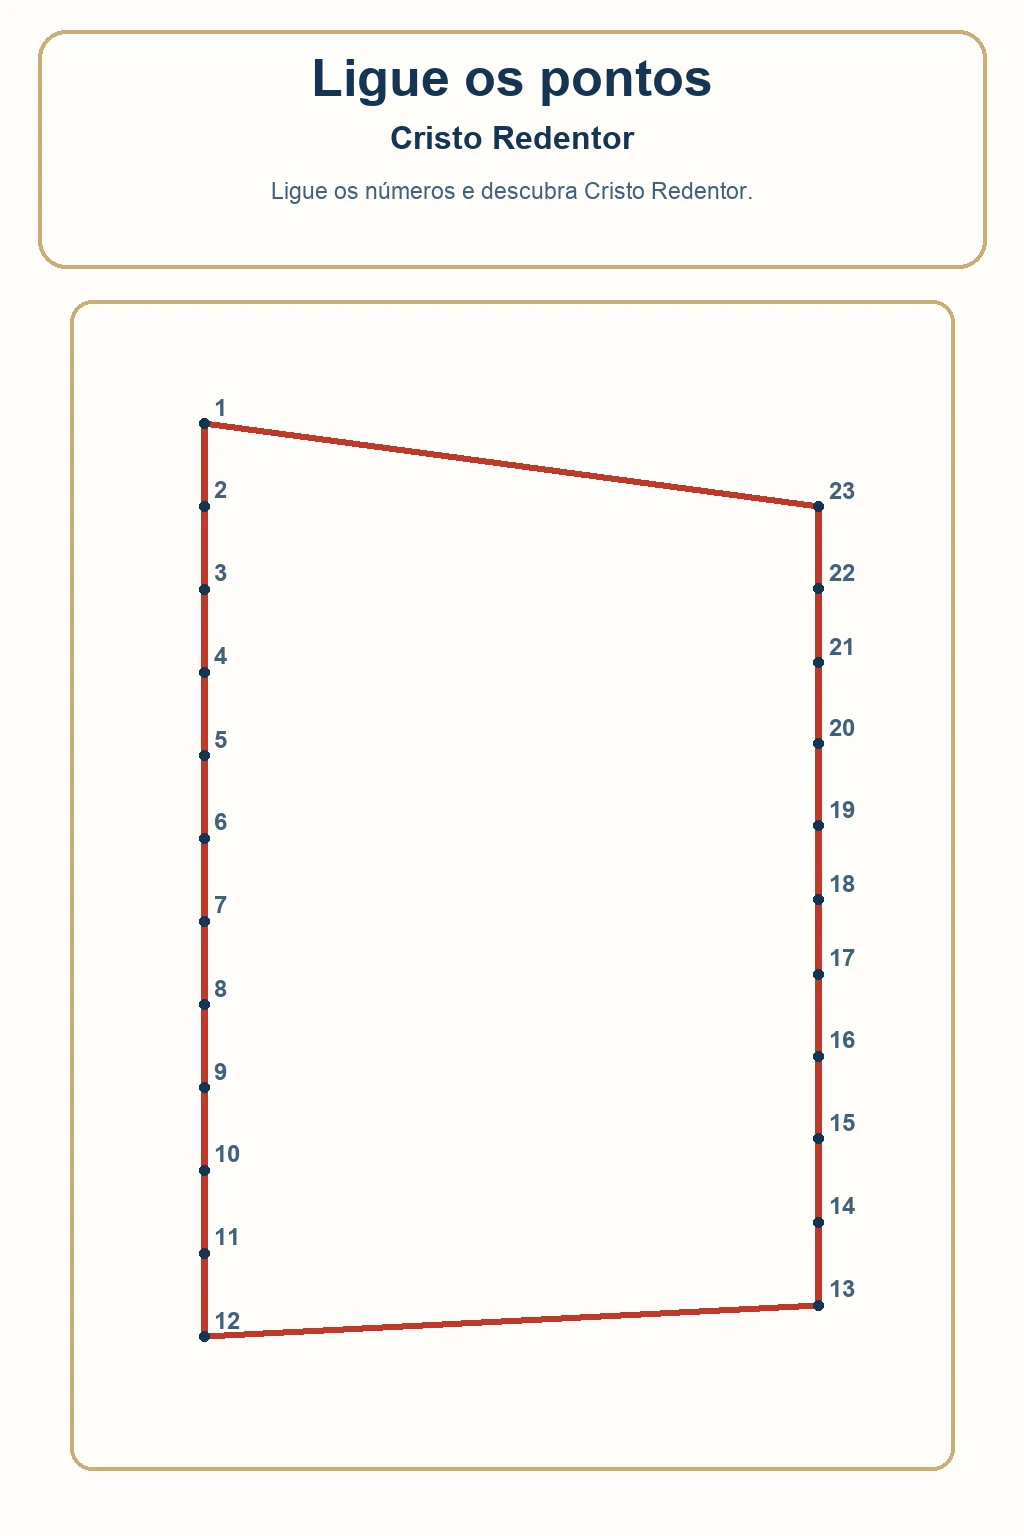
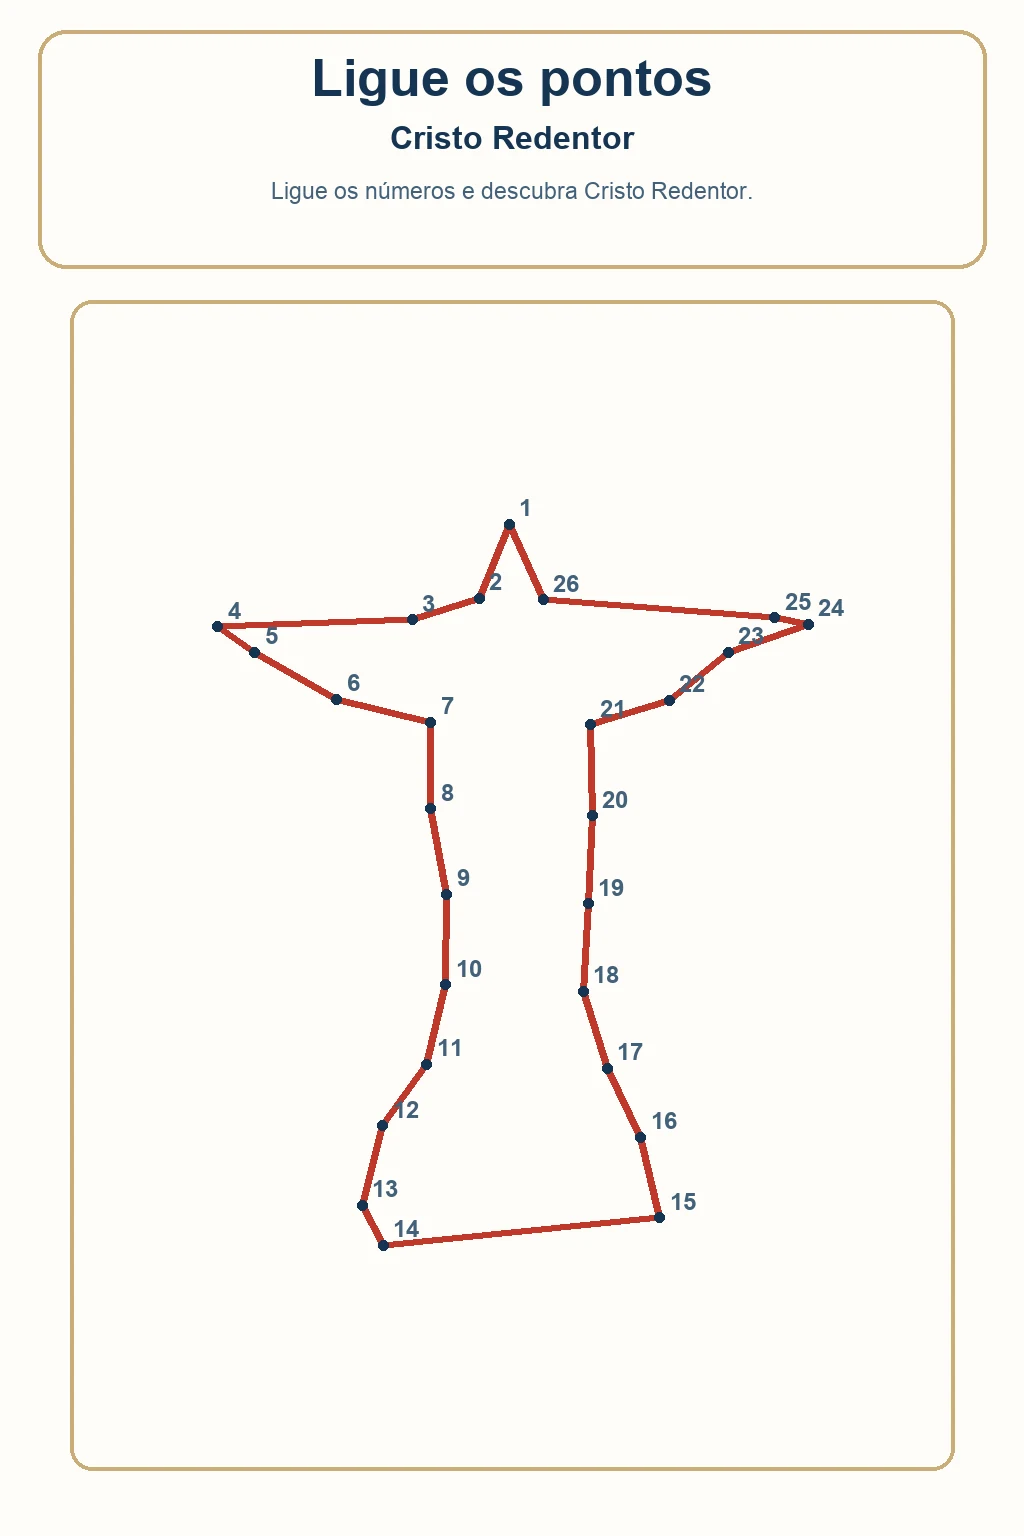
Split the house style by medium and stop it wrecking two activities
The style did reach real guide generation — it lives in the production
prompt, and the card previews are output of that pipeline, not mock-ups.
But applying one style to every medium broke two pages, and both only
showed up on review of the generated art.

The colouring page is thresholded to pure black and white, so the ochre
frame came back as a mangled black rectangle clipping off the sheet. Worse,
the dot-to-dot traces the outer silhouette of its line art to place the
numbers — and with a frame around the page, the outer silhouette IS the
frame. The puzzle shipped as two straight columns of dots whose answer was
a rectangle, with no trace of Christ the Redeemer.

So the house style is now three variants of one identity. Framed parchment
for colour activity pages. The same palette without the frame for spot the
difference, whose page crops the art into panels and throws the border away
anyway. Pure black line art on white for colouring, family colouring and
dot-to-dot, where any border reappears as ink.

Two activities never had the style at all: family colouring and
investigator build their prompts in their own functions and were missed the
first time. They now take the line-art and framed variants respectively.

The dot-to-dot also gained a guard, because a frame in the art is not the
only way to get one: a silhouette whose width barely varies down the page
is a border, not a monument, and is refused rather than printed.

diff --git a/tests/test_writing_activity_pages.py b/tests/test_writing_activity_pages.py
@@ -84,21 +84,20 @@ def test_writing_page_keeps_white_paper_even_over_dark_artwork(tmp_path: Path):
 
 
 def test_every_activity_artwork_asks_for_the_same_house_style():
-    """Uma identidade só para o caderno inteiro.
+    """Uma identidade só para o caderno, em três variantes de meio.
 
-    Sem contrato compartilhado, cada atividade saía com fundo próprio e o
-    guia parecia uma colagem de fontes diferentes.
+    Aplicar a moldura a tudo quebrou duas páginas: em colorir ela virou borda
+    preta torta na conversão monocromática, e no ligue os pontos o traçador
+    seguiu a moldura em vez do monumento.
     """
 
     from minerva_travel.models import OPTIONAL_LANDMARK_ACTIVITY_TYPES
     from minerva_travel.page_generation import activity_artwork_prompt
 
-    visual_types = [
-        activity_type
-        for activity_type in OPTIONAL_LANDMARK_ACTIVITY_TYPES
-        if activity_type not in {"family_coloring", "investigator"}
-    ]
-    for activity_type in visual_types:
+    lineart = {"coloring", "dot_to_dot"}
+    for activity_type in OPTIONAL_LANDMARK_ACTIVITY_TYPES:
+        if activity_type in {"investigator", "family_coloring"}:
+            continue  # têm prompt próprio, cobertos abaixo
         prompt = activity_artwork_prompt(
             activity_type=activity_type,
             landmark_name="Coliseu",
@@ -109,13 +108,51 @@ def test_every_activity_artwork_asks_for_the_same_house_style():
             has_revision_reference=False,
         )
         assert "HOUSE STYLE" in prompt, activity_type
-        # Paleta e traço são o que faz o caderno parecer um caderno só.
-        assert "vintage children's storybook watercolour" in prompt, activity_type
-        assert "aged cream, golden ochre, muted navy blue" in prompt, activity_type
-        # O texto exato continua sendo composto por código, nunca desenhado.
+        assert "vintage children's storybook" in prompt, activity_type
         assert "text-free" in prompt.lower(), activity_type
 
-        # A moldura ornamentada é a variante padrão; o "ache os erros" recorta
-        # a arte em painéis e a moldura seria descartada.
-        framed = "ornate double-rule border frame" in prompt
-        assert framed is (activity_type != "spot_the_difference"), activity_type
+        if activity_type in lineart:
+            # Traço puro: qualquer moldura reaparece como borda preta e, no
+            # ligue os pontos, vira a própria resposta do enigma.
+            assert "pure black line art" in prompt, activity_type
+            assert "no border frame" in prompt.lower(), activity_type
+        else:
+            assert "aged cream, golden ochre, muted navy blue" in prompt, activity_type
+            framed = "ornate double-rule border frame" in prompt
+            assert framed is (activity_type != "spot_the_difference"), activity_type
+
+
+def test_the_two_family_activities_share_the_house_style_too():
+    """Elas têm prompt próprio e ficaram de fora na primeira passada."""
+
+    from minerva_travel.page_generation import (
+        family_coloring_artwork_prompt,
+        investigator_artwork_prompt,
+    )
+
+    coloring = family_coloring_artwork_prompt(
+        landmark_name="Coliseu",
+        city="Roma",
+        country="Itália",
+        age_complexity="early_reader",
+        expected_visible_family_member_count=3,
+        has_family_cover=True,
+        has_landmark_reference=False,
+        has_landmark_page_reference=False,
+        has_revision_reference=False,
+    )
+    assert "pure black line art" in coloring
+
+    investigator = investigator_artwork_prompt(
+        child_count=2,
+        landmark_name="Coliseu",
+        city="Roma",
+        country="Itália",
+        age_complexity="early_reader",
+        expected_visible_family_member_count=3,
+        has_family_cover=True,
+        has_landmark_reference=False,
+        has_landmark_page_reference=False,
+        has_revision_reference=False,
+    )
+    assert "ornate double-rule border frame" in investigator

diff --git a/src/minerva_travel/page_generation.py b/src/minerva_travel/page_generation.py
@@ -1798,12 +1798,34 @@ _HOUSE_STYLE_PLAIN = (
     "paper grain overlay. No neon, no flat vector shapes, no modern UI look, no drop shadows."
 )
 
+# Páginas em traço puro. A moldura do estilo padrão vira borda preta torta
+# depois da conversão monocromática, e no "ligue os pontos" o traçador de
+# silhueta segue a moldura em vez do monumento — o enigma sai um retângulo.
+_HOUSE_STYLE_LINEART = (
+    "HOUSE STYLE — pure black line art on plain white, in the same vintage children's storybook "
+    "hand as the rest of the book: confident ink outlines, generous closed shapes, no shading. "
+    "Absolutely no border frame, no corner ornament, no postmark, no parchment texture, no "
+    "background wash and no colour — the sheet outside the drawing must stay pure white."
+)
+
 _WRITING_ARTWORK_CONTRACT = (
     "Create a decorative border-only illustration for a writing page: {motif}, arranged around "
     "the outer edges as a calm watercolor frame. Keep the entire central 80 percent pale, plain "
     "and free of detail — trusted code paints opaque ruled panels over it. Do not draw lines, "
     "rules, boxes, paper sheets or writing areas anywhere."
 )
+
+
+# Traço puro: a arte vira silhueta ou desenho de colorir e não pode ter moldura.
+_LINEART_ACTIVITIES = frozenset({"coloring", "family_coloring", "dot_to_dot"})
+
+
+def _house_style_for(activity_type: str) -> str:
+    if activity_type in _LINEART_ACTIVITIES:
+        return _HOUSE_STYLE_LINEART
+    if activity_type == "spot_the_difference":
+        return _HOUSE_STYLE_PLAIN
+    return _HOUSE_STYLE
 
 
 def activity_artwork_prompt(
@@ -1935,7 +1957,7 @@ def activity_artwork_prompt(
     return f"""
 Create only the visual artwork layer for a premium vertical printable children's travel activity.
 Activity: {activity_type}. Landmark: {landmark_name}. Location: {location}.
-{_HOUSE_STYLE_PLAIN if activity_type == "spot_the_difference" else _HOUSE_STYLE}
+{_house_style_for(activity_type)}
 Age-complexity band: {age_complexity}.
 {source_contract}{revision_contract}
 
@@ -2013,6 +2035,7 @@ def family_coloring_artwork_prompt(
     return f"""
 Create only the visual artwork layer for a premium vertical printable children's family travel
 coloring page set at {landmark_name} in {location}.
+{_HOUSE_STYLE_LINEART}
 {" ".join(reference_roles)}
 
 Show the complete referenced family enjoying one warm, affectionate vacation moment together,
@@ -2100,6 +2123,7 @@ def investigator_artwork_prompt(
     return f"""
 Create only the visual artwork layer for a premium vertical printable children's travel activity
 at {landmark_name} in {location}. The family is playing a warm, collaborative detective game.
+{_HOUSE_STYLE}
 {" ".join(reference_roles)}
 
 Preserve each family member's identity, age relationship, hair, glasses, body proportions and major

diff --git a/src/minerva_travel/dot_to_dot.py b/src/minerva_travel/dot_to_dot.py
@@ -22,6 +22,8 @@ DEFAULT_DOT_COUNT = DOT_COUNTS["early_reader"]
 
 INK_THRESHOLD = 128
 MIN_SILHOUETTE_ROWS = 24
+# Um contorno que quase não varia de largura é moldura, não monumento.
+MIN_SILHOUETTE_SPREAD = 0.15
 
 
 class DotToDotGenerationError(ValueError):
@@ -62,6 +64,7 @@ def build_dot_to_dot(lineart_path, *, dots: int) -> DotToDot:
         right_edge.append((dark[-1], row))
     if len(left_edge) < MIN_SILHOUETTE_ROWS:
         raise DotToDotGenerationError("O desenho não tem silhueta suficiente para ligar pontos.")
+    _reject_page_border(left_edge, right_edge, width)
 
     # Sobe pelo lado direito para fechar o contorno num laço só.
     outline = left_edge + list(reversed(right_edge))
@@ -80,6 +83,28 @@ def minimum_dot_gap(width: int, height: int) -> int:
     """
 
     return max(24, min(width, height) // 24)
+
+
+def _reject_page_border(
+    left_edge: list[tuple[int, int]],
+    right_edge: list[tuple[int, int]],
+    width: int,
+) -> None:
+    """Refuse a silhouette that is really the page frame.
+
+    Uma moldura decorativa vira duas colunas retas de pontos: ligá-las desenha
+    um retângulo, não o monumento. É melhor recusar do que imprimir um enigma
+    cuja resposta é a borda da folha.
+    """
+
+    spread = max(
+        max(x for x, _y in left_edge) - min(x for x, _y in left_edge),
+        max(x for x, _y in right_edge) - min(x for x, _y in right_edge),
+    )
+    if spread < width * MIN_SILHOUETTE_SPREAD:
+        raise DotToDotGenerationError(
+            "O contorno encontrado é a moldura da página, não o ponto turístico."
+        )
 
 
 def _sample(

diff --git a/tests/test_dot_to_dot.py b/tests/test_dot_to_dot.py
@@ -68,3 +68,16 @@ def test_impossible_dot_counts_are_refused(tmp_path: Path):
     for dots in (5, 200):
         with pytest.raises(DotToDotGenerationError):
             build_dot_to_dot(lineart, dots=dots)
+
+
+def test_a_decorative_page_frame_is_refused_as_a_silhouette(tmp_path: Path):
+    # A moldura vira duas colunas retas: ligar os números desenharia um
+    # retângulo, e a criança nunca veria o monumento aparecer.
+    path = tmp_path / "framed.png"
+    image = Image.new("L", (400, 600), 255)
+    draw = ImageDraw.Draw(image)
+    draw.rectangle((20, 20, 380, 580), outline=0, width=8)
+    image.save(path, "PNG")
+
+    with pytest.raises(DotToDotGenerationError):
+        build_dot_to_dot(path, dots=30)
